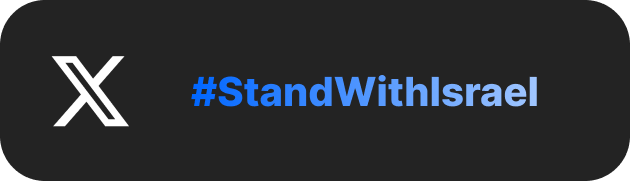
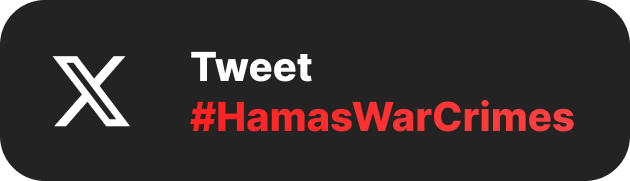
probably actually final

Changed region(s): [[0.3016, 0.2762, 0.9349, 0.7459], [0.0905, 0.3315, 0.2111, 0.6906]]

diff --git a/src/App.js b/src/App.js
@@ -7,31 +7,39 @@ import { useEffect, useState } from "react";
 const timeline = [
   {day: "6", time: -7150, type: "normal", description: 'Music festival begins, an event that takes place once a year and is considered to be one of the most important electronic music communities in Israel'},
 
-  {day: "7", time: 0, type: "normal", description: '"Simchat Torah", one of the holiest Jewish days on the calendar.'},
+  {day: "7", time: 0, type: "normal", description: '"Simchat Torah", one of the holiest Jewish days'},
   
-  {day: "7", time: 5000, type: "normal", description: "Since it's establishment in 87', Hamas has carried out countless terrorist attacks against israeli civilians."},
+  {day: "7", time: 5000, type: "normal", description: "More than 3,000 Hamas terrorists are getting armed and preparing rockets"},
   
-  {day: "7", time: 10000, type: "normal", description: "Hamas is recognized as a terror organiation by the United States, United Kingdom, Canada, Japan, Australia, and the European union"},
+  {day: "7", time: 10000, type: "normal", description: "4,000 Young Israelis celebrate in a nature rave party"},
   
-  {day: "7", time: 23640, type: "normal", description: '3 Million people wake up to 5,000 rockets shot at Israel, No one knows why.'},
+  {day: "7", time: 15640, type: "normal", description: 'Hundreds of Israeli families are sleeping in Kibutzs not far from the Gaza border'},
   
-  {day: "7", time: 24300, type: "normal", description: '1,000 terrorists invade into israel'},
+  {day: "7", time: 23640, type: "normal", description: '3 Million people wake up to 1,000 rockets shot at Israel'},
+  
+  {day: "7", time: 24300, type: "normal", description: '1,500 terrorists invade into israel through the Gaza border'},
 
-  {day: "7", time: 25200, type: "normal", description: 'Terrorists are taking control of dozens of cities and human settlements. Terrorists are getting into the Israeli party, and starts to mass-shoot at over 500 citizens'},
+  {day: "7", time: 26500, type: "normal", description: 'Terrorists are pretending to be IDF soliders, and knock on people’s door. As they open the door, they’re getting shot'},
 
-  {day: "7", time: 25500, type: "normal", description: 'Terrorists are pretending to be IDF soliders, and knock on people’s door. As they open the door, they’re getting killed.'},
+  {day: "7", time: 28200, type: "normal", description: '500 Hundreds grandparents, mothers, fathers and children are slaughtered'},
+  
+  {day: "7", time: 29700, type: "normal", description: 'Others hide in shelters but get burnt'},
+  
+  {day: "7", time: 30700, type: "normal", description: 'Around 100 families are dragged into pickup trucks. Fathers are shot, Mothers, childrens and toddlers and even a few babies are taken'},
+  
+  {day: "7", time: 31700, type: "normal", description: '150 Terrorists are getting into the party and mass-shoot killing over 260 ravers, wounding hundreds of others while they escape'},
 
-  {day: "7", time: 26100, type: "normal", description: 'Hundreds of people were taken hostage by the terrorists, Terrorists are starting to shoot at citizens.'},
+  {day: "7", time: 32700, type: "normal", description: '30 girls and boys are taken violently into Gaza'},
 
-  {day: "7", time: 26700, type: "normal", description: 'Families starting to hide in their protected rooms, praying to not getting killed.'},
+  {day: "7", time: 33700, type: "normal", description: 'Additional 4,000 rockets are shot into main cities across Israel, attempting to kill as many civillians as possible'},
   
-  {day: "7", time: 27200, type: "normal", description: 'Citizens are praying for themselves, terrorists mass shooting across Southern Israel, as Hamas are shooting bombs nonstop across Israel'},
+  {day: "7", time: 34700, type: "normal", description: 'Citizens are praying for themselves and for their nation'},
   
-  {day: "7", time: 27800, type: "normal", description: 'This is what happened in the first hour of the morning.'},
+  {day: "7", time: 35700, type: "normal", description: 'This is what happened in the first hour of the morning'},
   
-  {day: "7", time: 28200, type: "question", description: 'Do you really support a terror organization?'},
+  {day: "7", time: 36700, type: "question", description: 'Do you support these horrible actions?'},
   
-  {day: "7", time: 30200, type: "buttons", description: null},
+  {day: "7", time: 41700, type: "buttons", description: null},
 ]
 
 function App() {
@@ -39,7 +47,7 @@ function App() {
   const date = Date.now() + 3603; // 1 hour & 3 seconds from now for demo
   const [seconds, setTimer] = useState(-7150);
   const [currentTimerlineObject, setCurrentTimelineObject] = useState(timeline[0]);
-  const [scrollMultiplier, setScrollMultiplier] = useState(3);
+  const [scrollMultiplier, setScrollMultiplier] = useState(10);
   const [descriptionSize, setDescriptionSize] = useState(null);
   const [scrollPosition, setScrollPosition] = useState(200);
   const [showDesc, setShowDesc] = useState(true);
@@ -78,7 +86,7 @@ function App() {
           setCurrentTimelineObject(e);
           setTimeout(() => setShowDesc(true), 600);
           if(e.type == "question") {
-            setDescriptionSize((position - 11784.2421875) / 16 + 32);
+            setDescriptionSize((position - 4403.2001953125) / 16 + 32);
           } else {
             setDescriptionSize(null);
           }
@@ -105,10 +113,10 @@ function App() {
 
   return (
     <div className="App">
-    <h1 className='title'>Stand With Israel</h1>
+    <h1 className='title'>October 7, Morning Timeline</h1>
       <div className='main'>
         {/* <p style={{color: "white"}}>{seconds}</p> */}
-        <TimerComponent result={result} day={day} />
+        <TimerComponent result={result} day={day} />{window.outerWidth < 600 ? <div><br/><br/><br/><br/><br/><br/></div> : <></> }
         <DescriptionComponent size={descriptionSize} showDesc={showDesc} content={currentTimerlineObject} />
       </div>
     </div>

diff --git a/src/components/Description.js b/src/components/Description.js
@@ -1,14 +1,14 @@
 import React from 'react'
 
 const DescriptionComponent = ({content, showDesc, size}) => {
-  const currentStyle = size != null ? { fontSize: `${Math.round(size)}px`, color: "red", opacity: `${(Math.round(window.pageYOffset*3) - 7150 - 28171) / 988 + 0.3}` } : {};
+  const currentStyle = size != null ? { fontSize: `${Math.round(size)}px`, color: "red", opacity: `${(Math.round(window.pageYOffset*3) - 7150 - 4403.2001953125) / 4403.2001953125}` } : {};
 
   return (
     <div style={{ width: "77vw", marginTop: "-10vh", float: 'right' }}>
       {content.type != "buttons" ? <p
       className={`descriptionText ${!showDesc ? "noOpacity" : ""}`}
       style={currentStyle}>{content.description}</p> : <div>
-        <a className='TwitterBtn' href="https://twitter.com/intent/tweet?text= &hashtags=IStandWithIsrael">
+        <a className='TwitterBtn' href="https://twitter.com/intent/tweet?text= &hashtags=HamasWarCrimes">
           <img style={{ height: '90.5px', width: '315px', margin: '55px', animationName: 'examplefull', animationDuration: '600ms' }} src='/twitterBtn.png' />
         </a>
       </div>}

diff --git a/src/App.css b/src/App.css
@@ -68,6 +68,23 @@
   animation-duration: 600ms;
 }
 
+@media only screen and (max-width: 600px) {
+  .main {
+    top: 25%;
+    display: block;
+  }
+
+  .dateText {
+    width: 50vw;
+  }
+  .descriptionText {
+        width: 100vw;
+        margin-right: -20vw;
+        font-size: x-large;
+        text-align: center;
+  }
+}
+
 @keyframes example {
   from {opacity: 0;}
   to {opacity: 0.3;}
